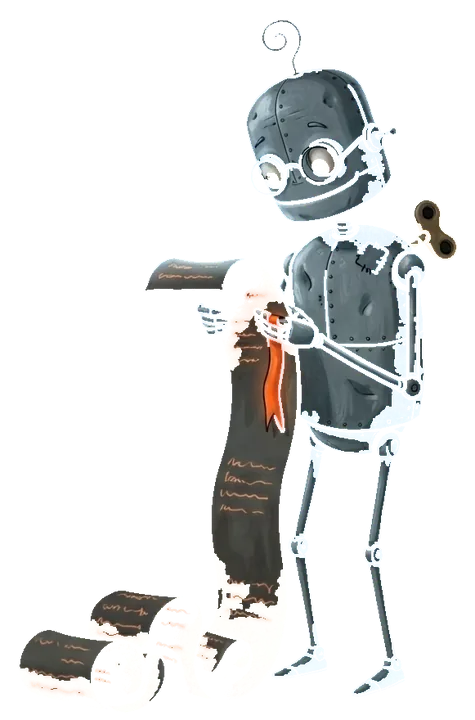
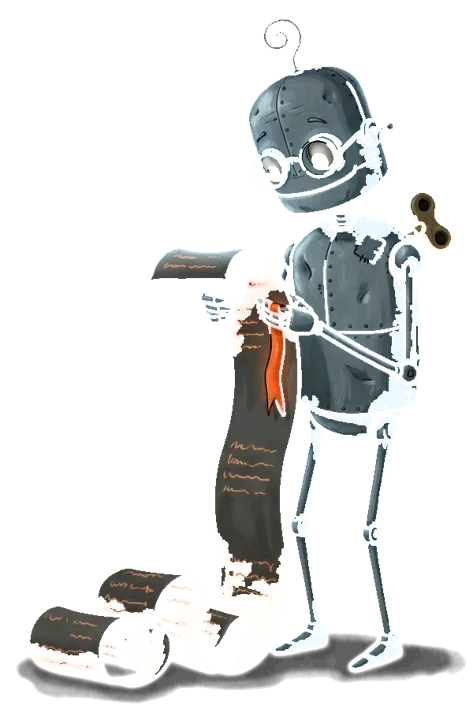
OD-157: keep the ground shadows on the nocturnal robots
The dark cutout kept only what is lighter than the night ground, so each
robot's ground shadow was lost. Shadows darker than the ground now stay as
translucent black, measured on a blurred copy so the paper grain does not
count, and only in the bottom fifth of the robot so the smoke behind it
stays out.

Claude-Session: https://claude.ai/code/session_018XMo65vPnKdNKwXLdbrnLU

Changed region(s): [[0.0296, 0.0306, 0.9767, 0.9778]]

diff --git a/site/src/components/robot.tsx b/site/src/components/robot.tsx
@@ -1,7 +1,7 @@
 // The Open DS robots (OD-157): a family of tin robots, each doing one design-system job.
 // Painted with Google Stitch in two editions: a daytime one on paper (<name>.webp) and a nocturnal
 // one (<name>-dark.webp). Both are cut out to transparent WebP in public/robots/, with the ground
-// separated out so shadows and glows stay translucent. The site theme picks the edition (CSS
+// separated out so shadows and glows stay translucent; the nocturnal ones keep their ground shadow. The site theme picks the edition (CSS
 // .robot-light and .robot-dark in globals.css); the hidden one is lazy and never downloads.
 import type { ReactNode } from "react";
 
@@ -9,32 +9,32 @@ export const ROBOTS = {
   swatch: {
     alt: "Swatch, a tall tin robot, holds up an orange colour card and a fan of paint swatches.",
     light: [352, 720],
-    dark: [352, 720],
+    dark: [347, 720],
   },
   measure: {
     alt: "Measure, a tin robot with a loupe eye, measures the gap between two blocks with a folding ruler.",
     light: [498, 720],
-    dark: [504, 720],
+    dark: [496, 720],
   },
   enquire: {
     alt: "Enquire, a round tin robot, holds up a sign with a question mark and taps its chin.",
     light: [520, 720],
-    dark: [523, 720],
+    dark: [517, 720],
   },
   parcel: {
     alt: "Parcel, a sturdy tin robot, walks forward holding out a paper parcel with an orange wax seal.",
     light: [444, 720],
-    dark: [449, 720],
+    dark: [438, 720],
   },
   slumber: {
     alt: "Slumber, a tin robot, sits curled up asleep with its wind-up key run down.",
     light: [628, 688],
-    dark: [466, 720],
+    dark: [478, 720],
   },
   scroll: {
     alt: "Scroll, a tin robot in round glasses, reads a long paper scroll that coils at its feet.",
     light: [466, 720],
-    dark: [475, 720],
+    dark: [473, 720],
   },
 } as const;
 
